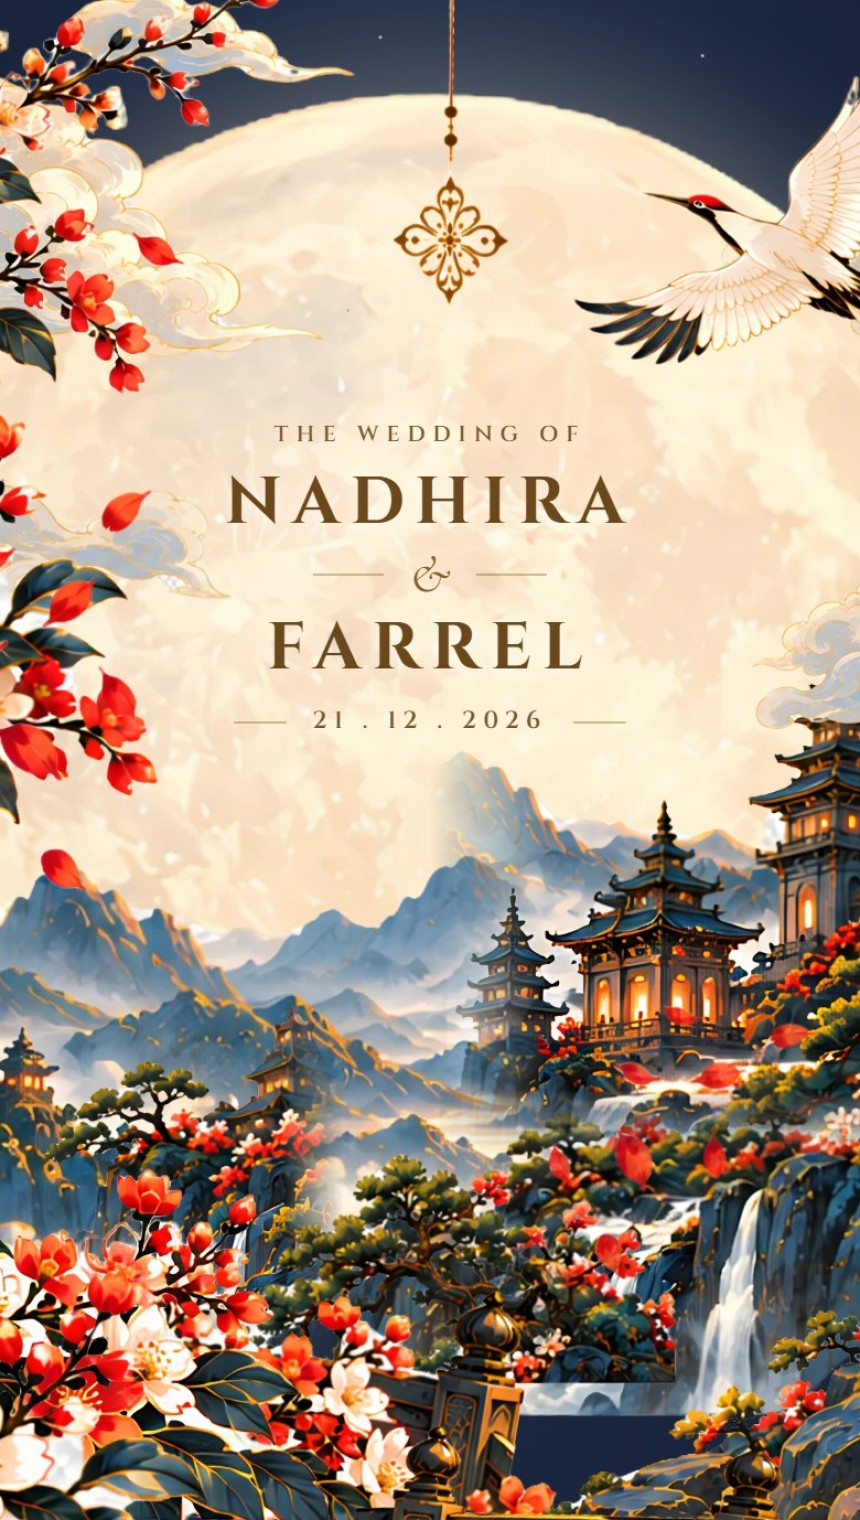
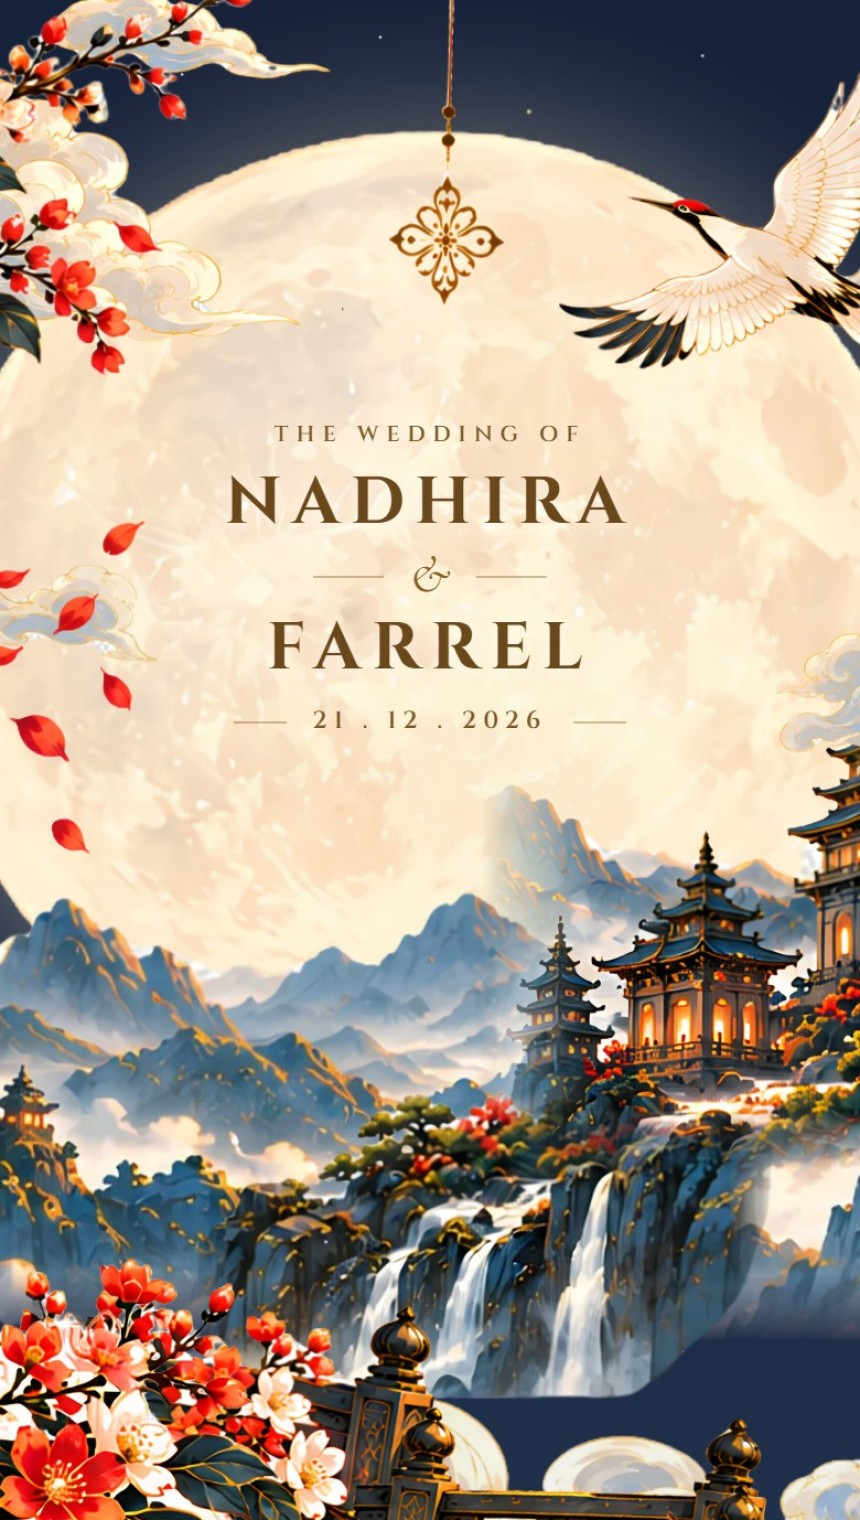
wedding-35: tidy cover layout, restore sequential entrance animation CSS

diff --git a/resources/views/templates/wedding/wedding-35.blade.php b/resources/views/templates/wedding/wedding-35.blade.php
@@ -284,7 +284,21 @@
             animation: petalsDrift 7s ease-in-out infinite;
         }
 
-/* Custom scrollbar */
+        /* Cover: aset muncul satu per satu */
+        .w35-in{position:absolute;inset:0;opacity:0;animation-duration:.7s;animation-timing-function:cubic-bezier(.25,.46,.45,.94);animation-fill-mode:forwards;pointer-events:none;}
+        .w35-zoom{animation-name:w35Zoom}.w35-fade{animation-name:w35Fade}.w35-left{animation-name:w35Left}.w35-right{animation-name:w35Right}.w35-up{animation-name:w35Up}.w35-down{animation-name:w35Down}
+        .w35-crane-in{animation-name:w35CraneIn;animation-duration:1.1s}.w35-text-in{animation-name:w35TextIn;animation-duration:1s}
+        @keyframes w35Up{from{opacity:0;transform:translateY(30px)}to{opacity:1;transform:none}}
+        @keyframes w35Down{from{opacity:0;transform:translateY(-30px)}to{opacity:1;transform:none}}
+        @keyframes w35Left{from{opacity:0;transform:translateX(-35px)}to{opacity:1;transform:none}}
+        @keyframes w35Right{from{opacity:0;transform:translateX(35px)}to{opacity:1;transform:none}}
+        @keyframes w35Zoom{from{opacity:0;transform:scale(.88)}to{opacity:1;transform:none}}
+        @keyframes w35Fade{from{opacity:0}to{opacity:1}}
+        @keyframes w35CraneIn{from{opacity:0;transform:translate(40px,-20px) scale(.9)}to{opacity:1;transform:none}}
+        @keyframes w35TextIn{from{opacity:0;transform:scale(.94);filter:blur(4px)}to{opacity:1;transform:none;filter:none}}
+        #cover-screen .w35-cta{opacity:0;animation:w35Up .8s ease forwards;animation-delay:6.5s}
+
+        /* Custom scrollbar */
         ::-webkit-scrollbar {
             width: 5px;
         }
@@ -307,138 +321,39 @@
         <!-- ========================================== -->
         <section id="cover-screen" class="fixed inset-0 z-50 flex flex-col justify-between max-w-[460px] mx-auto bg-[#172635] transition-transform duration-1000 ease-in-out overflow-hidden shadow-2xl">
             <!-- Artwork scene (682:1024) composed from individual assets in wedding-new-2 -->
-            <div id="w35-scene" class="absolute top-0 left-1/2 -translate-x-1/2 h-full pointer-events-none select-none overflow-hidden" style="width:max(100%, 66.6dvh);background:radial-gradient(ellipse at 50% 30%,#2a3b55 0%,#1b2740 45%,#141d30 100%);">
-                <!-- Distant night stars -->
-                <div class="absolute inset-0" style="background-image:radial-gradient(1px 1px at 12% 8%,#fff,transparent),radial-gradient(1px 1px at 30% 4%,#fff,transparent),radial-gradient(1.5px 1.5px at 58% 6%,#f5e3b0,transparent),radial-gradient(1px 1px at 72% 3%,#fff,transparent),radial-gradient(1px 1px at 88% 10%,#fff,transparent),radial-gradient(1.5px 1.5px at 94% 22%,#fff,transparent),radial-gradient(1px 1px at 8% 22%,#fff,transparent),radial-gradient(1px 1px at 46% 2%,#fff,transparent),radial-gradient(1px 1px at 82% 28%,#f5e3b0,transparent);"></div>
-
-                <!-- 1. Giant Luminous Full Moon -->
-                <div class="w35-in w35-zoom" style="animation-delay:0.15s">
-                    <img src="{{ $imgDir }}/layers/moon.webp" alt="Moon" class="absolute max-w-none" style="left:3.5%;top:5%;width:93%;filter:drop-shadow(0 0 35px rgba(255,236,190,.4));"/>
-                </div>
-
-                <!-- 2. Distant Misty Blue Mountains -->
-                <div class="w35-in w35-fade" style="animation-delay:0.4s">
-                    <img src="{{ $imgDir }}/layers/mountains.webp" alt="Mountains" class="absolute max-w-none" style="left:-2%;top:45%;width:104%;"/>
-                </div>
-
-                <!-- 3. Left Midground Cliff & Waterfall -->
-                <div class="w35-in w35-fade" style="animation-delay:0.65s">
-                    <img src="{{ $imgDir }}/layers/cliff-pagoda.webp" alt="Cliff" class="absolute max-w-none" style="left:18%;top:54%;width:25%;"/>
-                </div>
-
-                <!-- 4. Waterfall in Gorge -->
-                <div class="w35-in w35-up" style="animation-delay:0.9s">
-                    <img src="{{ $imgDir }}/layers/waterfall.webp" alt="Waterfall" class="absolute max-w-none" style="left:42%;top:59%;width:48%;"/>
-                </div>
-
-                <!-- 5. Pagoda Temple on Mountain Cliff (Right) -->
-                <div class="w35-in w35-right" style="animation-delay:1.15s">
-                    <img src="{{ $imgDir }}/layers/pagoda.webp" alt="Pagoda" class="absolute max-w-none" style="left:50%;top:34%;width:52%;"/>
-                </div>
-
-                <!-- 6. Pine Tree Branch -->
-                <div class="w35-in w35-up" style="animation-delay:1.4s">
-                    <img src="{{ $imgDir }}/layers/pine.webp" alt="Pine" class="absolute max-w-none" style="left:28%;top:62%;width:42%;"/>
-                </div>
-
-                <!-- 7. Rocks on Right -->
-                <div class="w35-in w35-up" style="animation-delay:1.65s">
-                    <img src="{{ $imgDir }}/layers/rocks.webp" alt="Rocks" class="absolute max-w-none" style="left:54%;top:69%;width:48%;"/>
-                </div>
-
-                <!-- 8. Bridge Railing Segments -->
-                <div class="w35-in w35-up" style="animation-delay:1.9s">
-                    <img src="{{ $imgDir }}/layers/rail-flower-l.webp" alt="Bridge Left" class="absolute max-w-none" style="left:20%;top:68%;width:44%;transform:rotate(9deg);"/>
-                </div>
-                <div class="w35-in w35-up" style="animation-delay:2.05s">
-                    <img src="{{ $imgDir }}/layers/rail-plain.webp" alt="Bridge Mid" class="absolute max-w-none" style="left:44%;top:76%;width:40%;transform:rotate(9deg);"/>
-                </div>
-                <div class="w35-in w35-up" style="animation-delay:2.2s">
-                    <img src="{{ $imgDir }}/layers/rail-flower-r.webp" alt="Bridge Right" class="absolute max-w-none" style="left:64%;top:83%;width:40%;transform:rotate(9deg);"/>
-                </div>
-
-                <!-- 9. Golden Clouds Flanking Moon -->
-                <div class="w35-in w35-left" style="animation-delay:2.4s">
-                    <img src="{{ $imgDir }}/layers/cloud-b.webp" alt="Cloud" class="absolute max-w-none" style="left:-6%;top:26%;width:40%;transform:scaleX(-1);"/>
-                </div>
-                <div class="w35-in w35-right" style="animation-delay:2.55s">
-                    <img src="{{ $imgDir }}/layers/cloud-b.webp" alt="Cloud" class="absolute max-w-none" style="left:72%;top:12%;width:32%;"/>
-                </div>
-                <div class="w35-in w35-right" style="animation-delay:2.7s">
-                    <img src="{{ $imgDir }}/layers/cloud-a.webp" alt="Cloud" class="absolute max-w-none" style="left:76%;top:28%;width:28%;"/>
-                </div>
-                <div class="w35-in w35-left" style="animation-delay:2.85s">
-                    <img src="{{ $imgDir }}/layers/cloud-a.webp" alt="Cloud" class="absolute max-w-none" style="left:-4%;top:-1%;width:48%;"/>
-                </div>
-
-                <!-- 10. Cascading Cherry Blossoms (Top & Bottom Left) -->
-                <div class="w35-in w35-left" style="animation-delay:3.0s">
-                    <img src="{{ $imgDir }}/layers/blossom-top.webp" alt="Blossoms Top" class="absolute max-w-none" style="left:-6%;top:-1%;width:44%;"/>
-                </div>
-                <div class="w35-in w35-left" style="animation-delay:3.15s">
-                    <img src="{{ $imgDir }}/layers/flower-branch.webp" alt="Blossoms Mid" class="absolute max-w-none" style="left:-12%;top:24%;width:38%;transform:rotate(-15deg);"/>
-                </div>
-                <div class="w35-in w35-left" style="animation-delay:3.3s">
-                    <img src="{{ $imgDir }}/layers/flower-bush.webp" alt="Flowers Bottom" class="absolute max-w-none" style="left:-12%;top:58%;width:54%;"/>
-                </div>
-                <div class="w35-in w35-left" style="animation-delay:3.45s">
-                    <img src="{{ $imgDir }}/layers/flower-branch.webp" alt="Flowers Lower" class="absolute max-w-none" style="left:-10%;top:68%;width:42%;"/>
-                </div>
-
-                <!-- 11. Swirling Blue Cloud Waves at Base -->
-                <div class="w35-in w35-up" style="animation-delay:3.6s">
-                    <img src="{{ $imgDir }}/layers/waves.webp" alt="Waves Left" class="absolute max-w-none" style="left:-10%;top:80%;width:80%;"/>
-                </div>
-                <div class="w35-in w35-up" style="animation-delay:3.75s">
-                    <img src="{{ $imgDir }}/layers/waves.webp" alt="Waves Mid" class="absolute max-w-none" style="left:18%;top:85%;width:75%;"/>
-                </div>
-                <div class="w35-in w35-up" style="animation-delay:3.9s">
-                    <img src="{{ $imgDir }}/layers/waves.webp" alt="Waves Right" class="absolute max-w-none" style="left:46%;top:83%;width:68%;transform:scaleX(-1);"/>
-                </div>
-
-                <!-- 12. Hanging Gold Pendant (Top Center) -->
-                <div class="w35-in w35-down" style="animation-delay:4.05s">
-                    <img src="{{ $imgDir }}/layers/pendant.webp" alt="Pendant" class="absolute max-w-none animate-pendant" style="left:43.5%;top:-1%;width:13%;transform-origin:50% 0;"/>
-                </div>
-
-                <!-- 13. Flying White Red-Crowned Crane (Top Right) -->
-                <div class="w35-in w35-crane-in" style="animation-delay:4.2s">
-                    <img src="{{ $imgDir }}/layers/crane.webp" alt="Crane" class="absolute max-w-none animate-crane" style="left:61%;top:4%;width:33%;"/>
-                </div>
-
-                <!-- 14. Drifting Flower Petals -->
-                <div class="w35-in w35-fade" style="animation-delay:4.35s">
-                    <img src="{{ $imgDir }}/layers/petals.webp" alt="Petals" class="absolute max-w-none animate-petals" style="left:10%;top:26%;width:18%;"/>
-                </div>
-                <div class="w35-in w35-fade" style="animation-delay:4.5s">
-                    <img src="{{ $imgDir }}/layers/petals.webp" alt="Petals" class="absolute max-w-none" style="left:62%;top:52%;width:14%;transform:rotate(30deg);opacity:.85;"/>
-                </div>
-
-                <!-- 15. Center Typography on the Moon -->
-                <div class="absolute left-0 right-0 text-center w35-in w35-text-in select-none" style="top:22.5%;color:#7D5827;animation-delay:4.7s">
-                    <p class="font-cinzel text-[10px] sm:text-[11px] font-semibold uppercase tracking-[0.35em] text-[#7D5827] drop-shadow-[0_1px_2px_rgba(255,255,255,0.7)] mb-2">
-                        THE WEDDING OF
-                    </p>
-
-                    <h1 class="font-cinzel text-3xl sm:text-4xl font-bold tracking-[0.16em] uppercase text-[#6B471C] drop-shadow-[0_2px_4px_rgba(255,255,255,0.7)] leading-none">
-                        {{ $couple['bride'] }}
-                    </h1>
-
+            <div id="w35-scene" class="absolute top-0 left-1/2 -translate-x-1/2 h-full pointer-events-none select-none overflow-hidden" style="width:max(100%, 66.6dvh);background:linear-gradient(180deg,#16213a 0%,#1c2a45 55%,#22324d 100%);">
+                <div class="absolute inset-0" style="background-image:radial-gradient(1px 1px at 12% 8%,#fff,transparent),radial-gradient(1px 1px at 30% 4%,#fff,transparent),radial-gradient(1.5px 1.5px at 58% 6%,#f5e3b0,transparent),radial-gradient(1px 1px at 72% 3%,#fff,transparent),radial-gradient(1px 1px at 88% 10%,#fff,transparent),radial-gradient(1.5px 1.5px at 94% 22%,#fff,transparent),radial-gradient(1px 1px at 8% 22%,#fff,transparent),radial-gradient(1px 1px at 46% 2%,#fff,transparent);"></div>
+                <div class="w35-in w35-zoom" style="animation-delay:0.20s"><img src="{{ $imgDir }}/layers/moon.webp" alt="" class="absolute max-w-none " style="left:9%;top:7%;width:82%;filter:drop-shadow(0 0 35px rgba(255,236,190,.4));"/></div>
+                <div class="w35-in w35-fade" style="animation-delay:0.50s"><img src="{{ $imgDir }}/layers/mountains.webp" alt="" class="absolute max-w-none " style="left:-2%;top:47%;width:104%;"/></div>
+                <div class="w35-in w35-up" style="animation-delay:0.80s"><img src="{{ $imgDir }}/layers/waterfall.webp" alt="" class="absolute max-w-none " style="left:30%;top:58%;width:48%;"/></div>
+                <div class="w35-in w35-right" style="animation-delay:1.10s"><img src="{{ $imgDir }}/layers/pagoda.webp" alt="" class="absolute max-w-none " style="left:54%;top:36%;width:50%;"/></div>
+                <div class="w35-in w35-right" style="animation-delay:1.40s"><img src="{{ $imgDir }}/layers/cloud-b.webp" alt="" class="absolute max-w-none " style="left:74%;top:13%;width:30%;"/></div>
+                <div class="w35-in w35-right" style="animation-delay:1.70s"><img src="{{ $imgDir }}/layers/cloud-a.webp" alt="" class="absolute max-w-none " style="left:78%;top:30%;width:26%;"/></div>
+                <div class="w35-in w35-left" style="animation-delay:2.00s"><img src="{{ $imgDir }}/layers/cloud-a.webp" alt="" class="absolute max-w-none " style="left:-4%;top:-1%;width:46%;"/></div>
+                <div class="w35-in w35-left" style="animation-delay:2.30s"><img src="{{ $imgDir }}/layers/cloud-b.webp" alt="" class="absolute max-w-none " style="left:-8%;top:30%;width:36%;transform:scaleX(-1);"/></div>
+                <div class="w35-in w35-left" style="animation-delay:2.60s"><img src="{{ $imgDir }}/layers/blossom-top.webp" alt="" class="absolute max-w-none " style="left:-6%;top:-1%;width:42%;"/></div>
+                <div class="w35-in w35-fade" style="animation-delay:2.90s"><img src="{{ $imgDir }}/layers/waves.webp" alt="" class="absolute max-w-none " style="left:22%;top:72%;width:70%;opacity:.95;"/></div>
+                <div class="w35-in w35-up" style="animation-delay:3.20s"><img src="{{ $imgDir }}/layers/rail-flower-l.webp" alt="" class="absolute max-w-none " style="left:16%;top:69%;width:40%;transform:rotate(9deg);"/></div>
+                <div class="w35-in w35-up" style="animation-delay:3.50s"><img src="{{ $imgDir }}/layers/rail-plain.webp" alt="" class="absolute max-w-none " style="left:44%;top:75%;width:38%;transform:rotate(9deg);"/></div>
+                <div class="w35-in w35-up" style="animation-delay:3.80s"><img src="{{ $imgDir }}/layers/rail-flower-r.webp" alt="" class="absolute max-w-none " style="left:68%;top:81%;width:38%;transform:rotate(9deg);"/></div>
+                <div class="w35-in w35-left" style="animation-delay:4.10s"><img src="{{ $imgDir }}/layers/flower-bush.webp" alt="" class="absolute max-w-none " style="left:-12%;top:63%;width:52%;"/></div>
+                <div class="w35-in w35-up" style="animation-delay:4.40s"><img src="{{ $imgDir }}/layers/waves.webp" alt="" class="absolute max-w-none " style="left:-10%;top:81%;width:80%;"/></div>
+                <div class="w35-in w35-up" style="animation-delay:4.70s"><img src="{{ $imgDir }}/layers/waves.webp" alt="" class="absolute max-w-none " style="left:38%;top:83%;width:74%;transform:scaleX(-1);"/></div>
+                <div class="w35-in w35-down" style="animation-delay:5.00s"><img src="{{ $imgDir }}/layers/pendant.webp" alt="" class="absolute max-w-none animate-pendant" style="left:43.5%;top:-1%;width:13%;transform-origin:50% 0;"/></div>
+                <div class="w35-in w35-crane-in" style="animation-delay:5.30s"><img src="{{ $imgDir }}/layers/crane.webp" alt="" class="absolute max-w-none animate-crane" style="left:60%;top:4%;width:33%;"/></div>
+                <div class="w35-in w35-fade" style="animation-delay:5.60s"><img src="{{ $imgDir }}/layers/petals.webp" alt="" class="absolute max-w-none animate-petals" style="left:12%;top:28%;width:15%;"/></div>
+                <div class="absolute left-0 right-0 text-center w35-in w35-text-in select-none" style="top:22.5%;animation-delay:5.90s">
+                    <p class="font-cinzel text-[10px] sm:text-[11px] font-semibold uppercase tracking-[0.35em] text-[#7D5827] drop-shadow-[0_1px_2px_rgba(255,255,255,0.7)] mb-2">THE WEDDING OF</p>
+                    <h1 class="font-cinzel text-3xl sm:text-4xl font-bold tracking-[0.16em] uppercase text-[#6B471C] drop-shadow-[0_2px_4px_rgba(255,255,255,0.7)] leading-none">{{ $couple['bride'] }}</h1>
                     <div class="my-0.5 sm:my-1 flex items-center justify-center gap-3">
                         <span class="h-[1px] w-8 sm:w-12 bg-[#8A6126]/40"></span>
-                        <span class="font-serif italic text-2xl sm:text-3xl font-normal text-[#8A6126] drop-shadow-[0_1px_2px_rgba(255,255,255,0.6)]">&amp;</span>
+                        <span class="font-serif italic text-2xl sm:text-3xl text-[#8A6126]">&amp;</span>
                         <span class="h-[1px] w-8 sm:w-12 bg-[#8A6126]/40"></span>
                     </div>
-
-                    <h2 class="font-cinzel text-3xl sm:text-4xl font-bold tracking-[0.16em] uppercase text-[#6B471C] drop-shadow-[0_2px_4px_rgba(255,255,255,0.7)] leading-none">
-                        {{ $couple['groom'] }}
-                    </h2>
-
+                    <h2 class="font-cinzel text-3xl sm:text-4xl font-bold tracking-[0.16em] uppercase text-[#6B471C] drop-shadow-[0_2px_4px_rgba(255,255,255,0.7)] leading-none">{{ $couple['groom'] }}</h2>
                     <div class="mt-2.5 sm:mt-3.5 flex items-center justify-center gap-3">
                         <span class="h-[1px] w-6 sm:w-8 bg-[#8A6126]/40"></span>
-                        <p class="font-cinzel text-[11px] sm:text-xs font-semibold tracking-[0.28em] text-[#7D5827] drop-shadow-[0_1px_2px_rgba(255,255,255,0.7)]">
-                            21 . 12 . 2026
-                        </p>
+                        <p class="font-cinzel text-[11px] sm:text-xs font-semibold tracking-[0.28em] text-[#7D5827]">21 . 12 . 2026</p>
                         <span class="h-[1px] w-6 sm:w-8 bg-[#8A6126]/40"></span>
                     </div>
                 </div>
@@ -1050,3 +965,4 @@
     </script>
 </body>
 </html>
+
